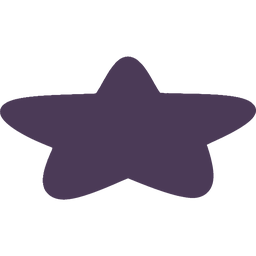
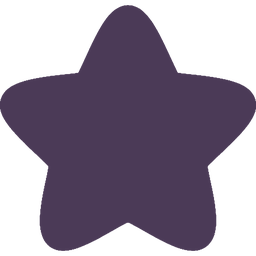
fix(gen): drop thin/hollow components from change masks — interior mask frames can't survive
Border erosion only killed frames painted AT the rect edge; NBP also paints
them further inside (toybox shelf line, fairy/workshop corners). A frame is
thin (<14px in one axis) or hollow (<15% bbox fill) while a real object blob
is solid in both axes, so keep_solid_components filters frames out of the
composite and the chip cutout wherever they land, and speckle chips lose
their confetti fragments at the source. Fails open to the largest component.

Also: un-squished star sprite + regenerated shadows; verify skill testid map
updated for the difficulty-chip/Rule Time era.

Changed region(s): [[0.0, 0.0, 1.0, 1.0]]

diff --git a/tools/gen/nbp.py b/tools/gen/nbp.py
@@ -167,6 +167,33 @@ def edit(base: Image.Image, mask: np.ndarray, prompt: str) -> tuple[Image.Image,
     return comp, changed_inside, changed_outside
 
 
+def keep_solid_components(mask_u8: np.ndarray) -> np.ndarray:
+    """Drop thin/linear connected components from a change mask.
+
+    NBP sometimes paints the edit mask's outline INTO the output — not
+    always at the rect edge, so border erosion alone can't catch it. A
+    painted frame is hollow (fills a few % of its own bbox) or thin (a few
+    px in one axis), while a real object blob is tens of px in BOTH axes
+    and fills 30%+ of its bbox. Fails open: if nothing passes, the largest
+    component stays.
+    """
+    import cv2
+    binary = (mask_u8 > 127).astype(np.uint8)
+    n, labels, stats, _ = cv2.connectedComponentsWithStats(binary)
+    if n <= 1:
+        return mask_u8
+    areas = stats[1:, cv2.CC_STAT_AREA]
+    ws = stats[1:, cv2.CC_STAT_WIDTH]
+    hs = stats[1:, cv2.CC_STAT_HEIGHT]
+    fills = areas / np.maximum(1, ws * hs)
+    keep_ids = [i + 1 for i in range(n - 1)
+                if fills[i] >= 0.15 and areas[i] >= 200 and min(ws[i], hs[i]) >= 14]
+    if not keep_ids:
+        keep_ids = [1 + int(areas.argmax())]
+    out = np.where(np.isin(labels, keep_ids), mask_u8, 0)
+    return out.astype(np.uint8)
+
+
 def _object_composite(b: np.ndarray, o: np.ndarray, region: np.ndarray) -> Image.Image:
     """Blend only genuinely-changed pixels of `o` into `b` within `region`.
 
@@ -183,6 +210,7 @@ def _object_composite(b: np.ndarray, o: np.ndarray, region: np.ndarray) -> Image
     m_img = m_img.filter(ImageFilter.MaxFilter(7))   # close pinholes, join parts
     m_img = m_img.filter(ImageFilter.MinFilter(5))   # shave stray specks
     m_img = m_img.filter(ImageFilter.MaxFilter(5))   # small safety dilation
+    m_img = Image.fromarray(keep_solid_components(np.asarray(m_img)), "L")
     m_img = m_img.filter(ImageFilter.GaussianBlur(2))  # feather the true edge
     m = np.asarray(m_img, np.float32)[..., None] / 255.0
     comp = b.astype(np.float32) * (1 - m) + o.astype(np.float32) * m

diff --git a/tools/gen/scenes.py b/tools/gen/scenes.py
@@ -24,7 +24,7 @@ import numpy as np
 from PIL import Image
 
 from .judge import ask_text, ask_yes_no, strict_min
-from .nbp import EDGE_ERODE_PX, edit_local, generate
+from .nbp import EDGE_ERODE_PX, edit_local, generate, keep_solid_components
 
 W, H = 1280, 720  # matches NBP's native ~16:9 output (no squash, minimal crop)
 MIN_CHANGE = 0.025
@@ -253,7 +253,7 @@ def object_cutout(
     m = Image.fromarray(changed, "L")
     m = m.filter(ImageFilter.MaxFilter(5)).filter(ImageFilter.MinFilter(5))  # close pinholes
     m = m.filter(ImageFilter.MinFilter(3))  # shave the feathered fringe
-    mask = np.asarray(m) > 127
+    mask = keep_solid_components(np.asarray(m)) > 127
     if mask.sum() < 400:
         return None
 

diff --git a/.claude/skills/verify/SKILL.md b/.claude/skills/verify/SKILL.md
@@ -19,20 +19,25 @@ Drive with Playwright from a repo that has it installed (e.g.
 `~/termchart/node_modules/playwright`). Every interactive element has a
 `data-testid`:
 
-- profiles: `player-<id>-play|-rename|-input|-avatar|-remove|-diff-easy|medium|hard`, `player-add`
-- menu: `menu-spotit|diff|hidden|memory|puzzle|shadow|oddone`, `switch-player`
+- difficulty (menu, persisted in localStorage kgb.difficulty.v1): `difficulty-easy|medium|hard`
+- menu: `menu-spotit|diff|hidden|memory|puzzle|shadow|oddone|rules`
 - games: `spotit-score`, `top-symbol-N`/`bottom-symbol-N` (answer = the testid
   present on both cards); `scene-pick-<id>`, `scene-surprise`; diff hitboxes
   `left-target-i`/`right-target-i` (invisible pressables = ground truth);
   `hidden-target-<id>`, `checklist-<id>`; `memory-card-<key>-<icon>` (pairs by
   icon suffix); `puzzle-tile-<pos>-piece-<piece>` (solved when pos==piece);
   `shadow-answer-<icon>` on the silhouette, `shadow-option-<icon>`;
-  `oddone-item-<i>-<icon>` (odd = unique icon); `win-overlay`, `play-again`,
-  `win-home`, `back-button`, `diff-hint`.
+  `oddone-item-<i>-<icon>[-odd]` (tap the `-odd` one; question banner =
+  `oddone-question-<cat>`); Rule Time: `rules-rule-<cat>[-recall]` (recall
+  header says "Memory check!" and repeats an EARLIER rule), tiles
+  `rules-tile-<i>-<icon>-y|n` (tap all `-y`), `rules-score`, `rules-progress`;
+  `win-overlay`, `play-again`, `win-home`, `back-button`, `diff-hint`.
+  Win buttons arm ~600ms after the overlay shows — wait ≥750ms before clicking.
 
 Routes live in the URL hash (`#/diff/unicorn`) — deep-link straight into any
 screen; browser back/forward are part of the surface. Rounds scale with the
-player's difficulty — read totals from the score chip (`N/M`), never hardcode.
+selected difficulty — read totals from the score chip (`N/M`), never hardcode
+(Rule Time is always 10 rounds; recall rounds exist on medium/hard only).
 
 Gotchas:
 - Wait for fonts + entrance animations (~1s) before screenshots.
